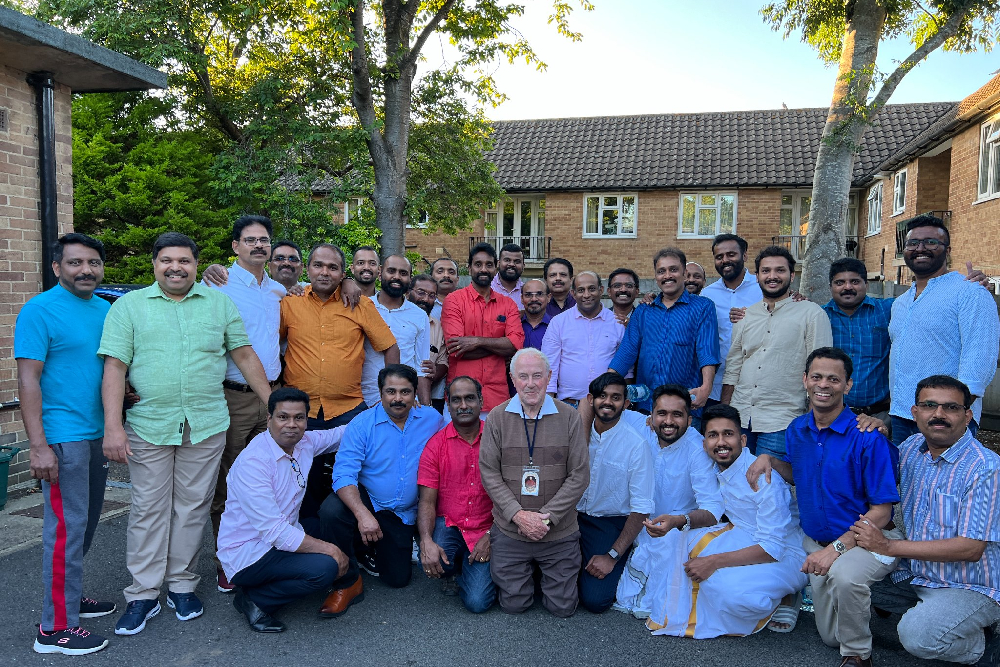
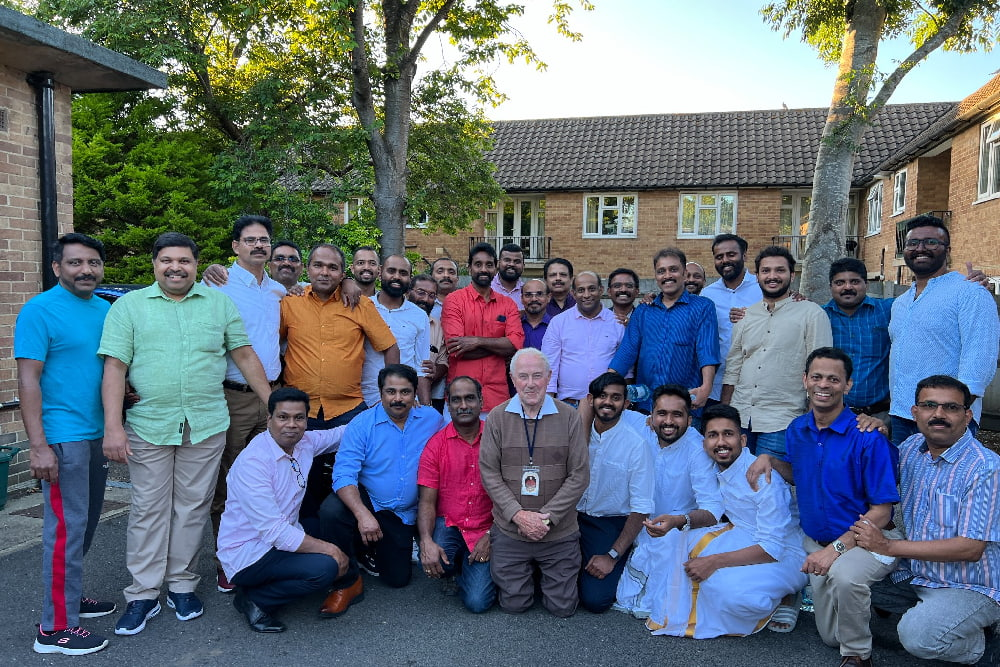
Compressed all images

diff --git a/index.html b/index.html
@@ -139,7 +139,7 @@ https://templatemo.com/tm-581-kind-heart-charity
                             <div class="carousel-inner">
                                 
                                 <div class="carousel-item active">
-                                    <img src="images/slide/volunteer-helping-with-donation-box.jpg"
+                                    <img src="images/slide/slide1.jpg"
                                         class="carousel-image img-fluid" alt="...">
 
                                     <div class="carousel-caption d-flex flex-column justify-content-end">
@@ -149,7 +149,7 @@ https://templatemo.com/tm-581-kind-heart-charity
                                 </div>
 
                                 <div class="carousel-item">
-                                    <img src="images/slide/volunteer-selecting-organizing-clothes-donations-charity.jpg"
+                                    <img src="images/slide/slide2.jpg"
                                         class="carousel-image img-fluid" alt="...">
 
                                     <div class="carousel-caption d-flex flex-column justify-content-end">
@@ -159,7 +159,7 @@ https://templatemo.com/tm-581-kind-heart-charity
                                 </div>
 
                                 <div class="carousel-item">
-                                    <img src="images/slide/medium-shot-people-collecting-donations.jpg"
+                                    <img src="images/slide/slide3.jpg"
                                         class="carousel-image img-fluid" alt="...">
 
                                     <div class="carousel-caption d-flex flex-column justify-content-end">
@@ -337,7 +337,7 @@ https://templatemo.com/tm-581-kind-heart-charity
 
                 <div class="row">
                     <div class="col-lg-6 col-md-5 col-12">
-                        <img src="images/paulAntony.jpg"
+                        <img src="images/team/paulAntony.jpg"
                             class="about-image ms-lg-auto bg-light shadow-lg img-fluid" alt="">
                     </div>
         
@@ -365,7 +365,7 @@ https://templatemo.com/tm-581-kind-heart-charity
         
                 <div class="row">
                     <div class="col-lg-6 col-md-5 col-12">
-                        <img src="images/sujithThomas.jpg"
+                        <img src="images/team/sujithThomas.jpg"
                             class="about-image ms-lg-auto bg-light shadow-lg img-fluid" alt="">
                     </div>
         
@@ -394,7 +394,7 @@ https://templatemo.com/tm-581-kind-heart-charity
 
                 <div class="row">
                     <div class="col-lg-6 col-md-5 col-12">
-                        <img src="images/princyThomas.jpg"
+                        <img src="images/team/princyThomas.jpg"
                             class="about-image ms-lg-auto bg-light shadow-lg img-fluid" alt="">
                     </div>
         
@@ -422,7 +422,7 @@ https://templatemo.com/tm-581-kind-heart-charity
 
                 <div class="row">
                     <div class="col-lg-6 col-md-5 col-12">
-                        <img src="images/sunithaSatish.jpg"
+                        <img src="images/team/sunithaSatish.jpg"
                             class="about-image ms-lg-auto bg-light shadow-lg img-fluid" alt="">
                     </div>
         
@@ -450,7 +450,7 @@ https://templatemo.com/tm-581-kind-heart-charity
 
                 <div class="row">
                     <div class="col-lg-6 col-md-5 col-12">
-                        <img src="images/roopeshJohn.jpg"
+                        <img src="images/team/roopeshJohn.jpg"
                             class="about-image ms-lg-auto bg-light shadow-lg img-fluid" alt="">
                     </div>
         
@@ -478,7 +478,7 @@ https://templatemo.com/tm-581-kind-heart-charity
 
                 <div class="row">
                     <div class="col-lg-6 col-md-5 col-12">
-                        <img src="images/pradeepAugustine.jpg"
+                        <img src="images/team/pradeepAugustine.jpg"
                             class="about-image ms-lg-auto bg-light shadow-lg img-fluid" alt="">
                     </div>
         
@@ -669,7 +669,7 @@ https://templatemo.com/tm-581-kind-heart-charity
                             <h2>Get in touch</h2>
 
                             <div class="contact-image-wrap d-flex flex-wrap">
-                                <img src="images/paulAntony.jpg"
+                                <img src="images/team/paulAntony.jpg"
                                     class="img-fluid avatar-image" alt="">
 
                                 <div class="d-flex flex-column justify-content-center ms-3">
